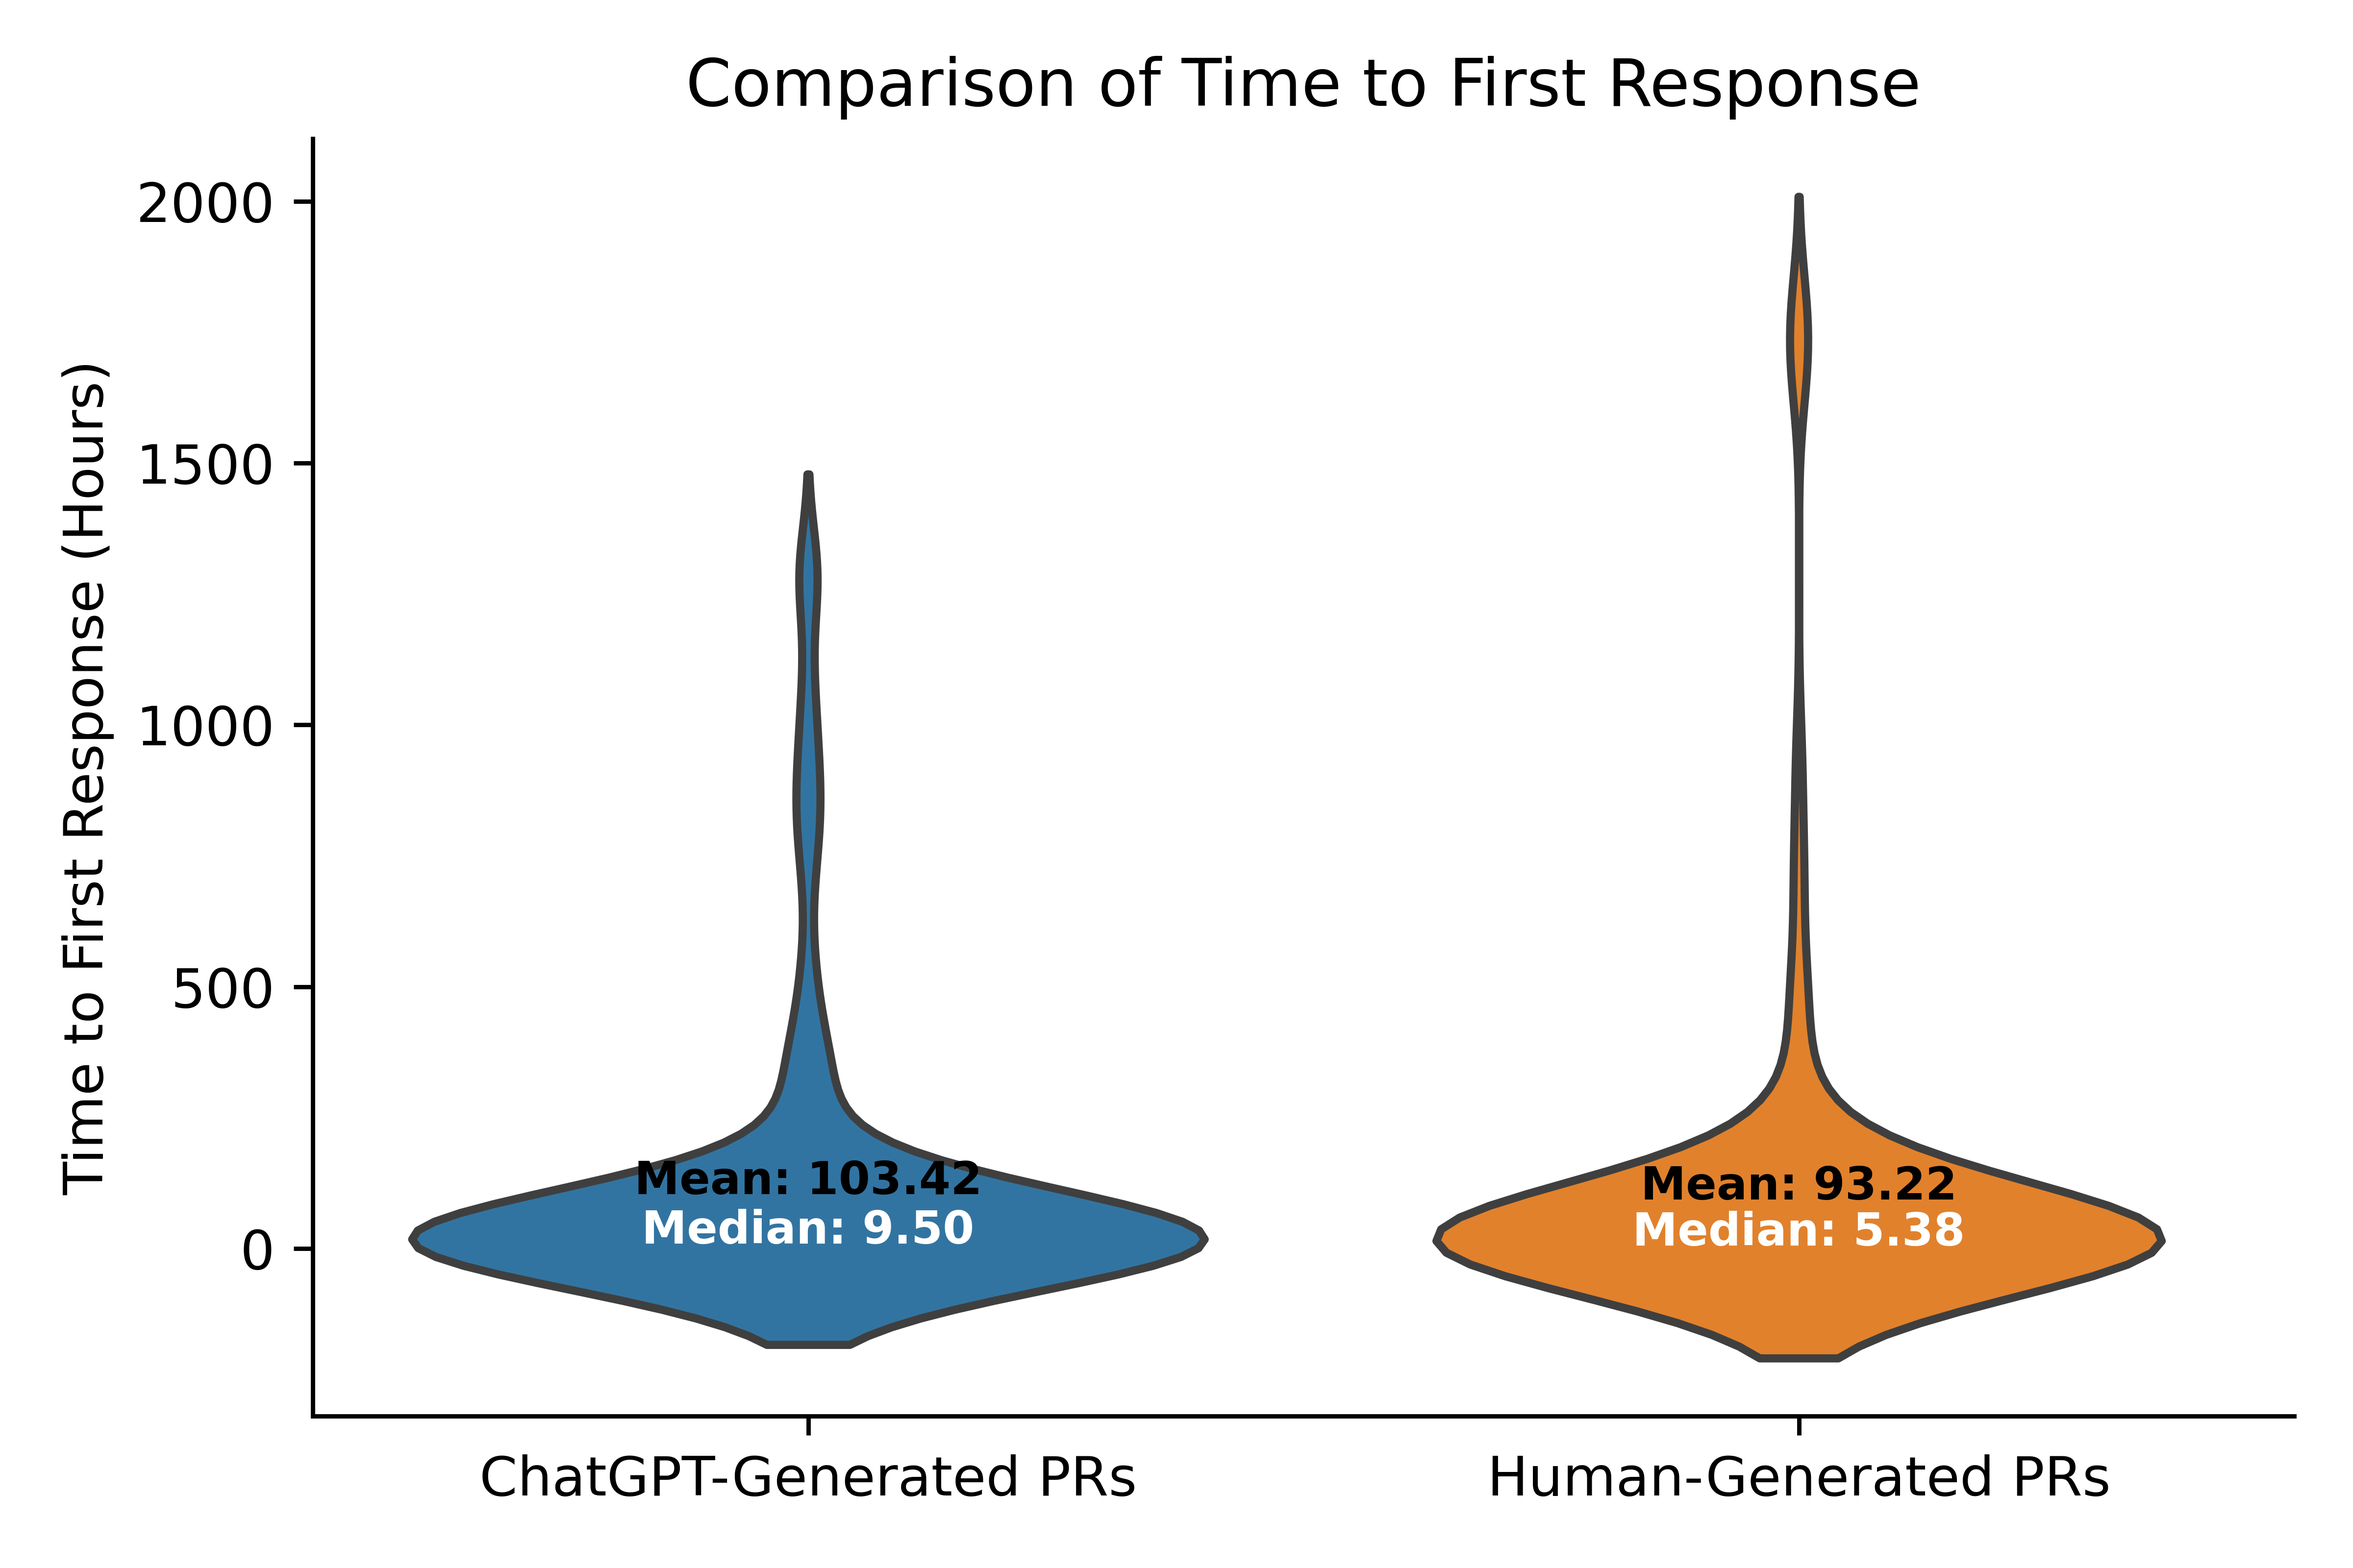
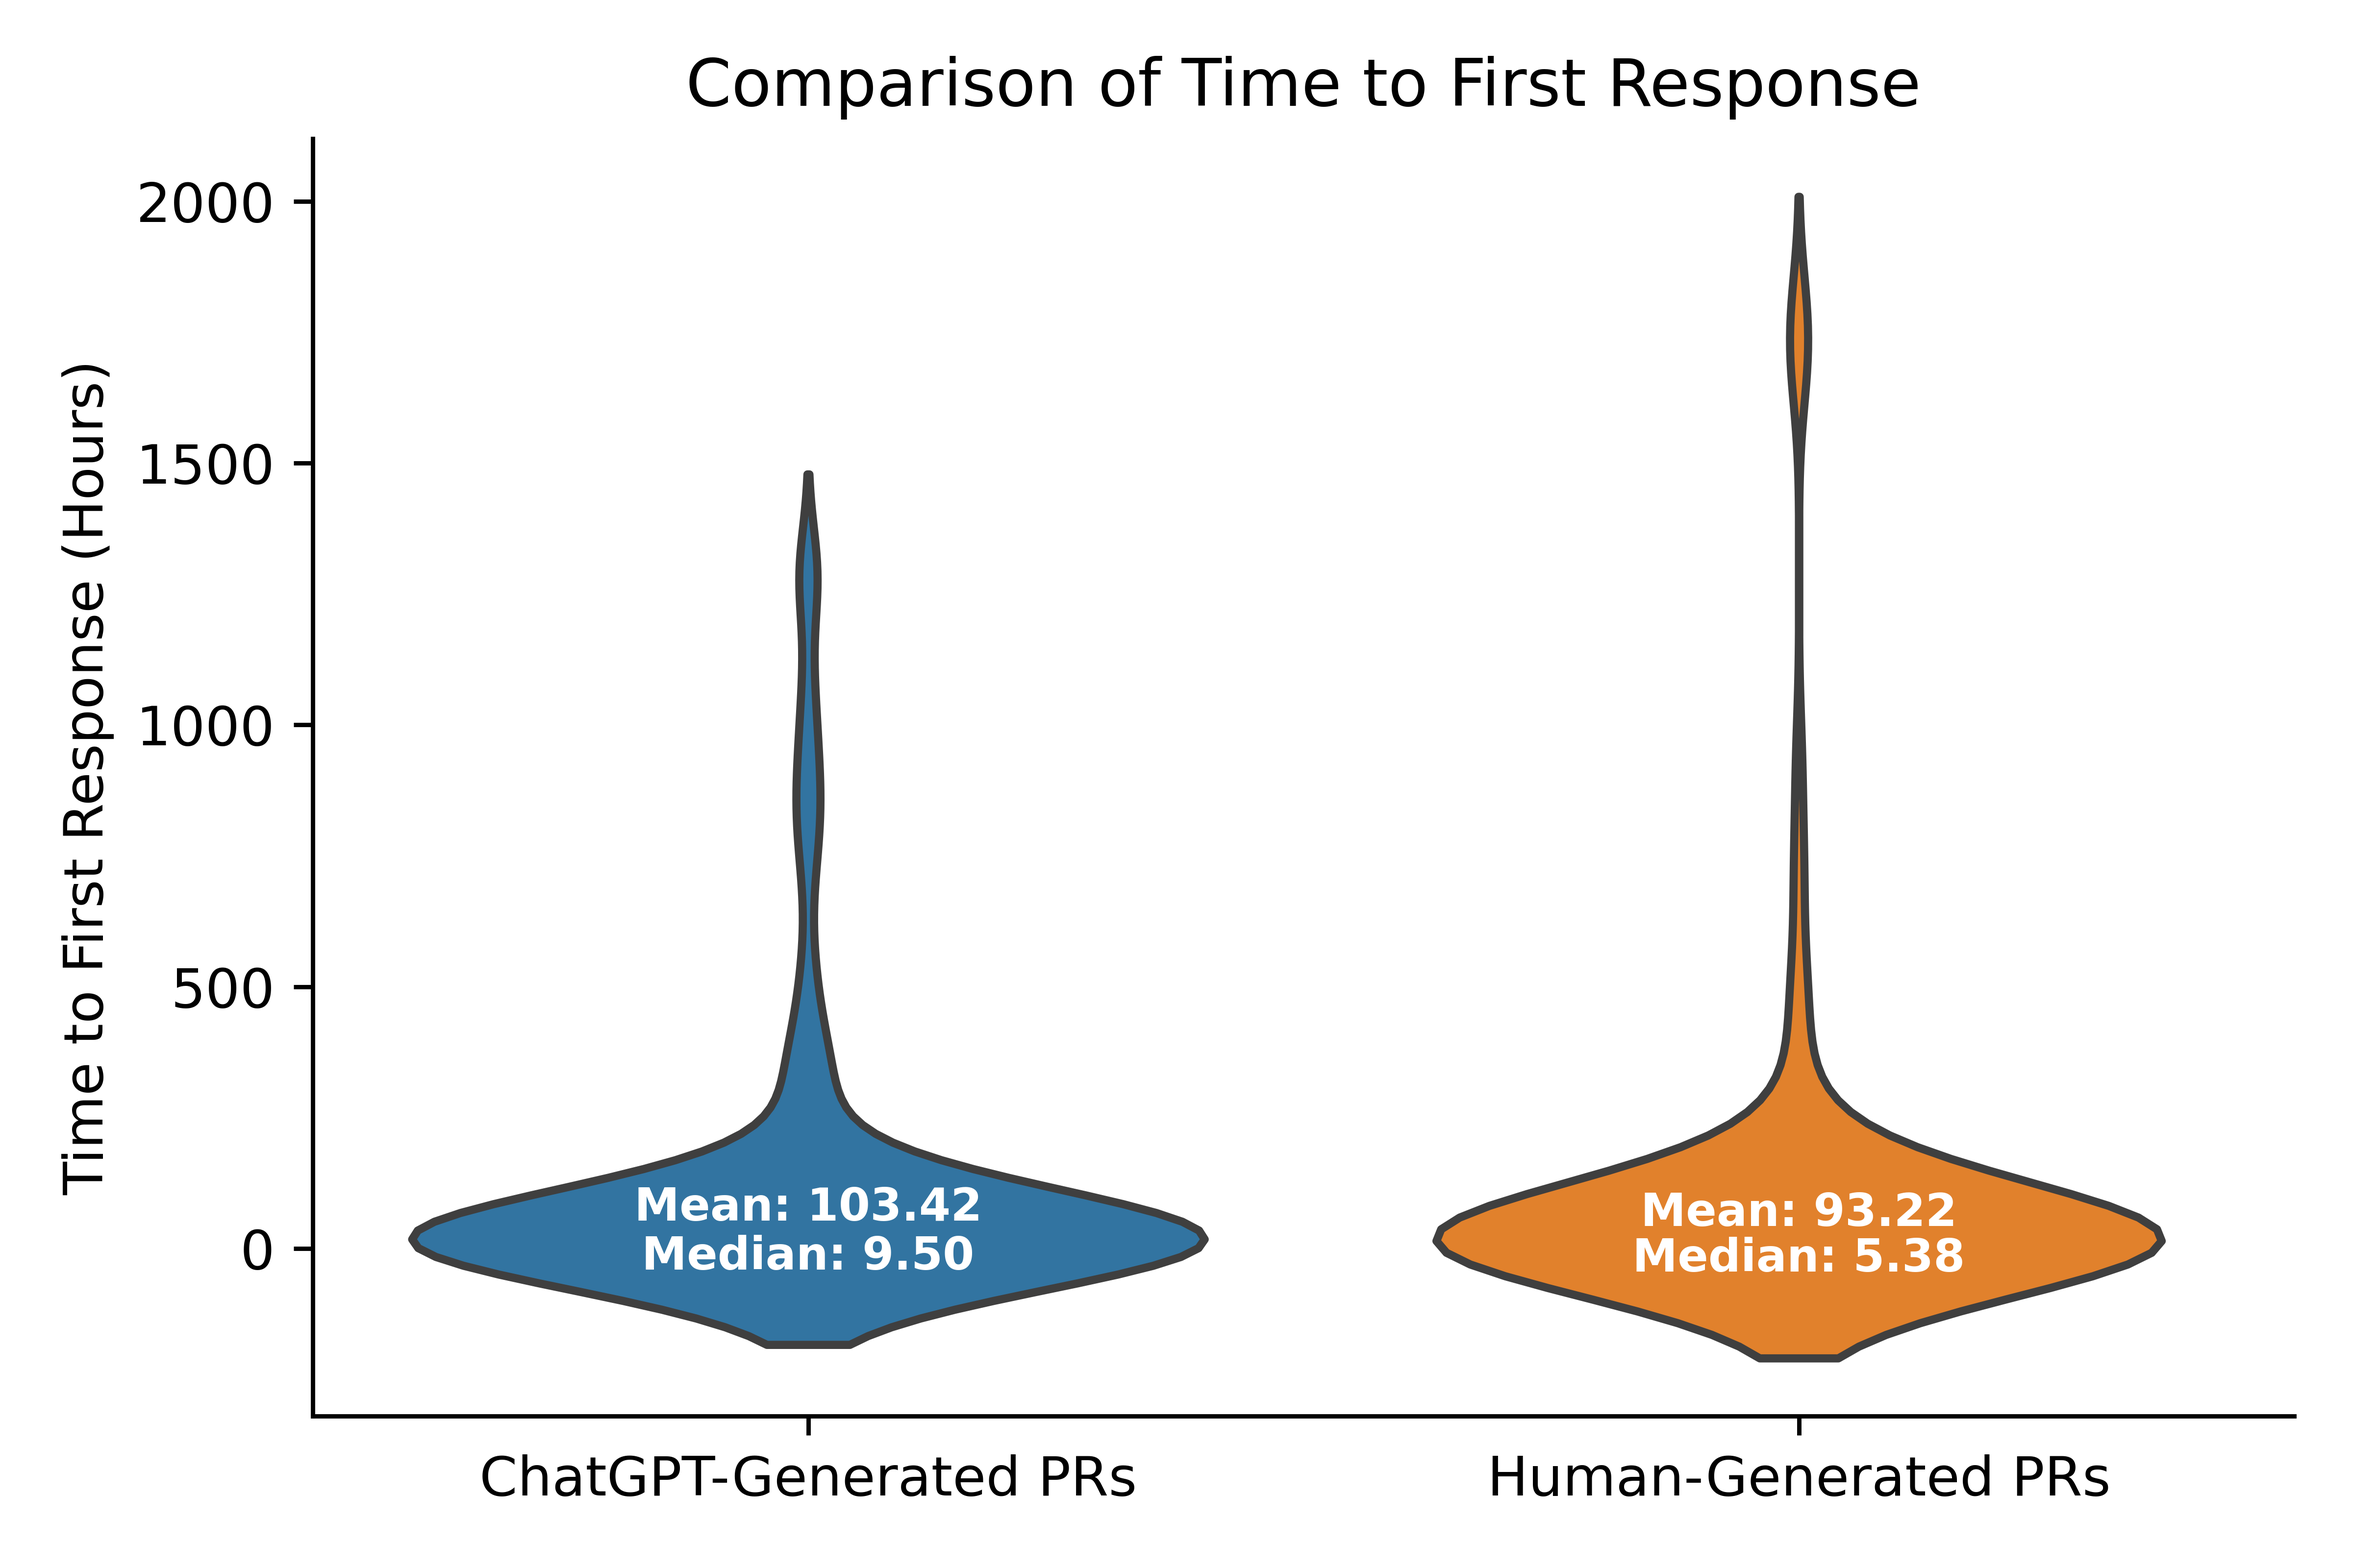
updated documentation

Changed region(s): [[0.25, 0.7188, 0.4375, 0.8125], [0.6875, 0.75, 0.8438, 0.8125]]

diff --git a/scripts/RQ1/time_review_analysis.py b/scripts/RQ1/time_review_analysis.py
@@ -35,7 +35,7 @@ import statistics
 import scipy.stats as stats
 from cliffs_delta import cliffs_delta
 
-#%% Function to remove 'Z' if present in datetime string
+#%% Function to remove 'Z' if present in datetime string to avoid error
 def remove_Z_if_present(datetime_str):
     return datetime_str[:-1] if datetime_str.endswith('Z') else datetime_str
 
@@ -92,7 +92,7 @@ def visualize_review_times_by_category(review_times_with_category, save_path):
     data_to_plot = {category: [] for category in categories}
 
     for time, category in review_times_with_category:
-        hours = time.total_seconds() / 3600  # Calculate time in hours
+        hours = time.total_seconds() / 3600  
         data_to_plot[category].append(hours)
 
     averages = {cat: np.mean(vals) for cat, vals in data_to_plot.items()}
@@ -127,6 +127,7 @@ def visualize_combined_review_times(chatgpt_review_times, no_chatgpt_review_time
     no_chatgpt_hours = [t.total_seconds() / 3600 for t in non_chatgpt_times]
 
     data_to_plot = [chatgpt_hours, no_chatgpt_hours]
+    offset = 50
 
     fig, ax = plt.subplots(figsize=(6, 4))
     sns.violinplot(data=data_to_plot, ax=ax, inner=None)
@@ -136,8 +137,8 @@ def visualize_combined_review_times(chatgpt_review_times, no_chatgpt_review_time
     positions = range(len(data_to_plot))
 
     for pos, mean, median in zip(positions, means, medians):
-        ax.text(pos, mean, f'Mean: {mean:.2f}', horizontalalignment='center', size='small', color='black', weight='semibold')
-        ax.text(pos, median, f'Median: {median:.2f}', horizontalalignment='center', size='small', color='white', weight='semibold')
+        ax.text(pos, mean - offset, f'Mean: {mean:.2f}', horizontalalignment='center', size='small', color='white', weight='semibold')
+        ax.text(pos, median - offset, f'Median: {median:.2f}', horizontalalignment='center', size='small', color='white', weight='semibold')
 
     ax.set_xticklabels(['ChatGPT-Generated PRs', 'Human-Generated PRs'])
     ax.set_ylabel('Time to First Response (Hours)')

diff --git a/scripts/RQ3/merged_time.py b/scripts/RQ3/merged_time.py
@@ -62,7 +62,7 @@ def process_data(json_path):
 
 #%% 
 def plot_merge_times(chatgpt_times, non_chatgpt_times, plot_path):
-    fig, ax = plt.subplots(figsize=(6.25, 3.75))
+    fig, ax = plt.subplots(figsize=(6, 4))
     data = [chatgpt_times, non_chatgpt_times]
     sns.violinplot(data=data, ax=ax, inner=None)
 
@@ -70,9 +70,11 @@ def plot_merge_times(chatgpt_times, non_chatgpt_times, plot_path):
     medians = [np.median(times) for times in data]
     positions = range(len(data))
 
+    offset = 120
+
     for pos, mean, median in zip(positions, means, medians):
-        ax.text(pos, mean, f'Mean: {mean:.2f}', horizontalalignment='center', size='small', color='black', weight='semibold')
-        ax.text(pos, median, f'Median: {median:.2f}', horizontalalignment='center', size='small', color='white', weight='semibold')
+        ax.text(pos, mean - offset, f'Mean: {mean:.2f}', horizontalalignment='center', size='small', color='white', weight='semibold')
+        ax.text(pos, median - offset, f'Median: {median:.2f}', horizontalalignment='center', size='small', color='white', weight='semibold')
 
     ax.set_xticklabels(['ChatGPT PRs', 'Non-ChatGPT PRs'])
     ax.set_ylabel('Merge Time (Hours)')

diff --git a/README.md b/README.md
@@ -1,1 +1,43 @@
 # MSR_challenge
+
+This is the replication package for the submission "Accept Me First: Comparing ChatGPT and Human-Generated Pull Requests". 
+
+## Description
+
+In this project, we analyse the time to first response, the PR abandonement Rate and the time to merge of between PRs generated by ChatGPT and those generated by humans.
+
+## Installation
+
+This project requires Python and several Python libraries, including numpy, matplotlib, seaborn, and scipy. These can be installed using pip and the requirements.txt:
+
+```bash
+pip install -r requirements.txt
+```
+
+## Files
+### Dataset
+The filtered data for the analysis is in the directory `data/analysis`. The directory contains two files, the ChatGPT-generated PR (`matched_chatgpt_prs.json`) and the human-generated PRs (`matched_non_chatgpt_prs.json`).
+
+### time_review_analysis.py
+
+This script is for the analysis of the the time to first response. To run navigate to the script directory and run:
+
+```
+python time_review_analysis.py
+```
+
+### pr_abandon_rate.py
+
+This script is for the analysis of the PR abandonement rate. To run navigate to the script directory and run:
+
+```
+python pr_abandon_rate.py
+```
+
+### merge_time.py
+
+This script is for the analysis of the time to merge a PR. To run navigate to the script directory and run:
+
+```
+python merge_time.py
+```
